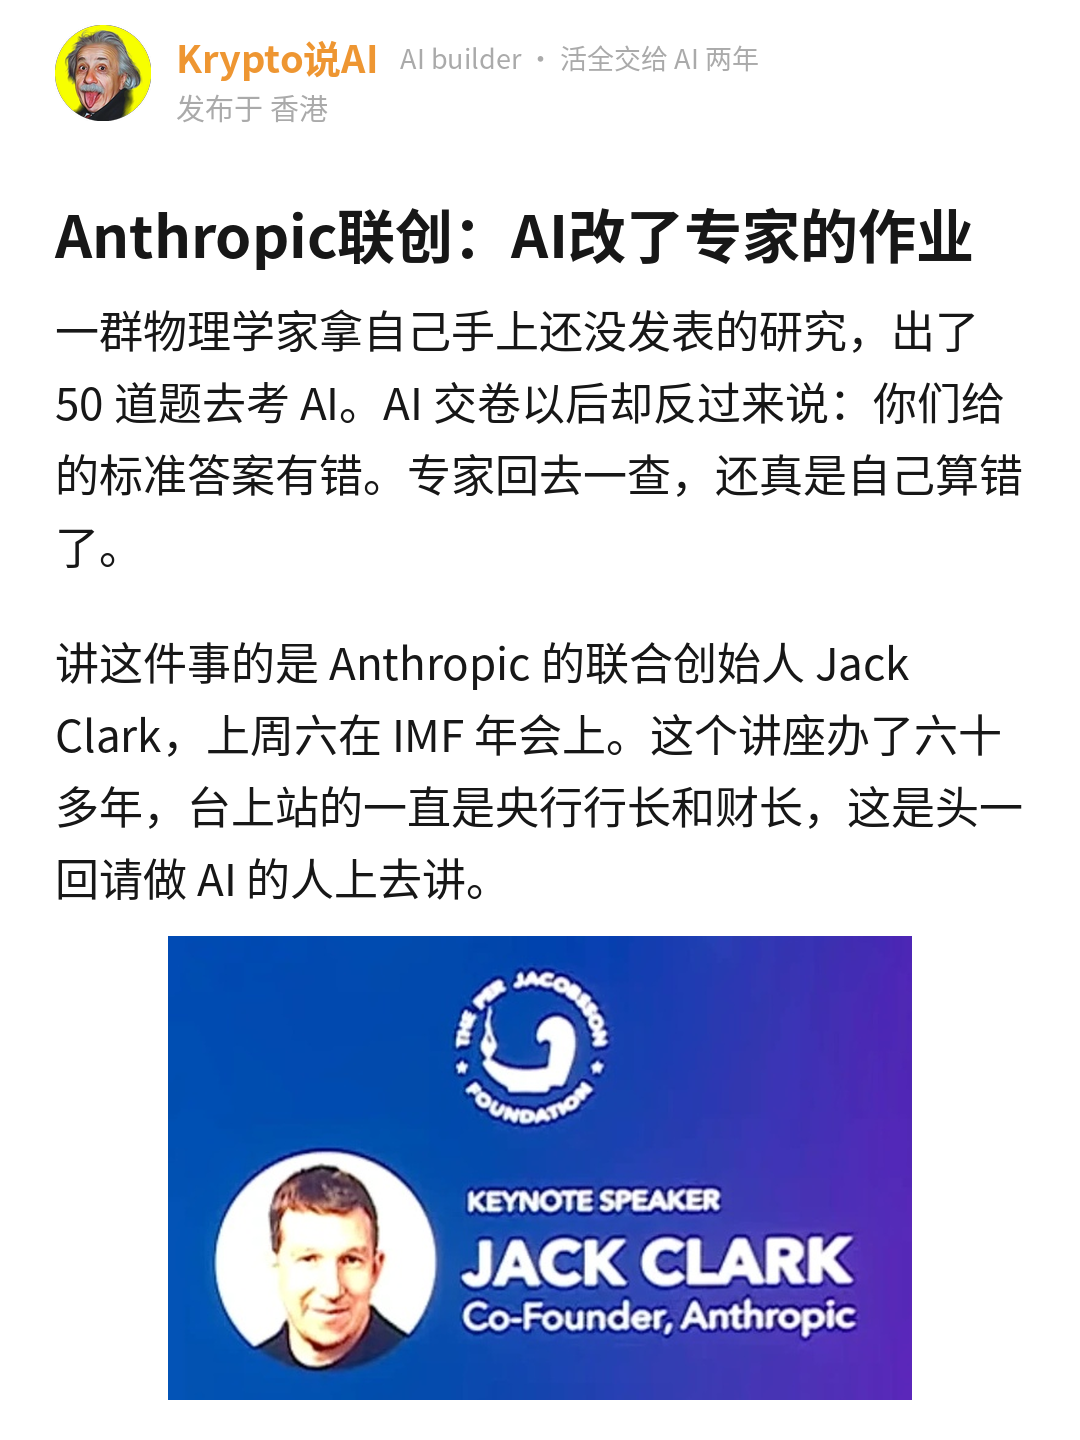
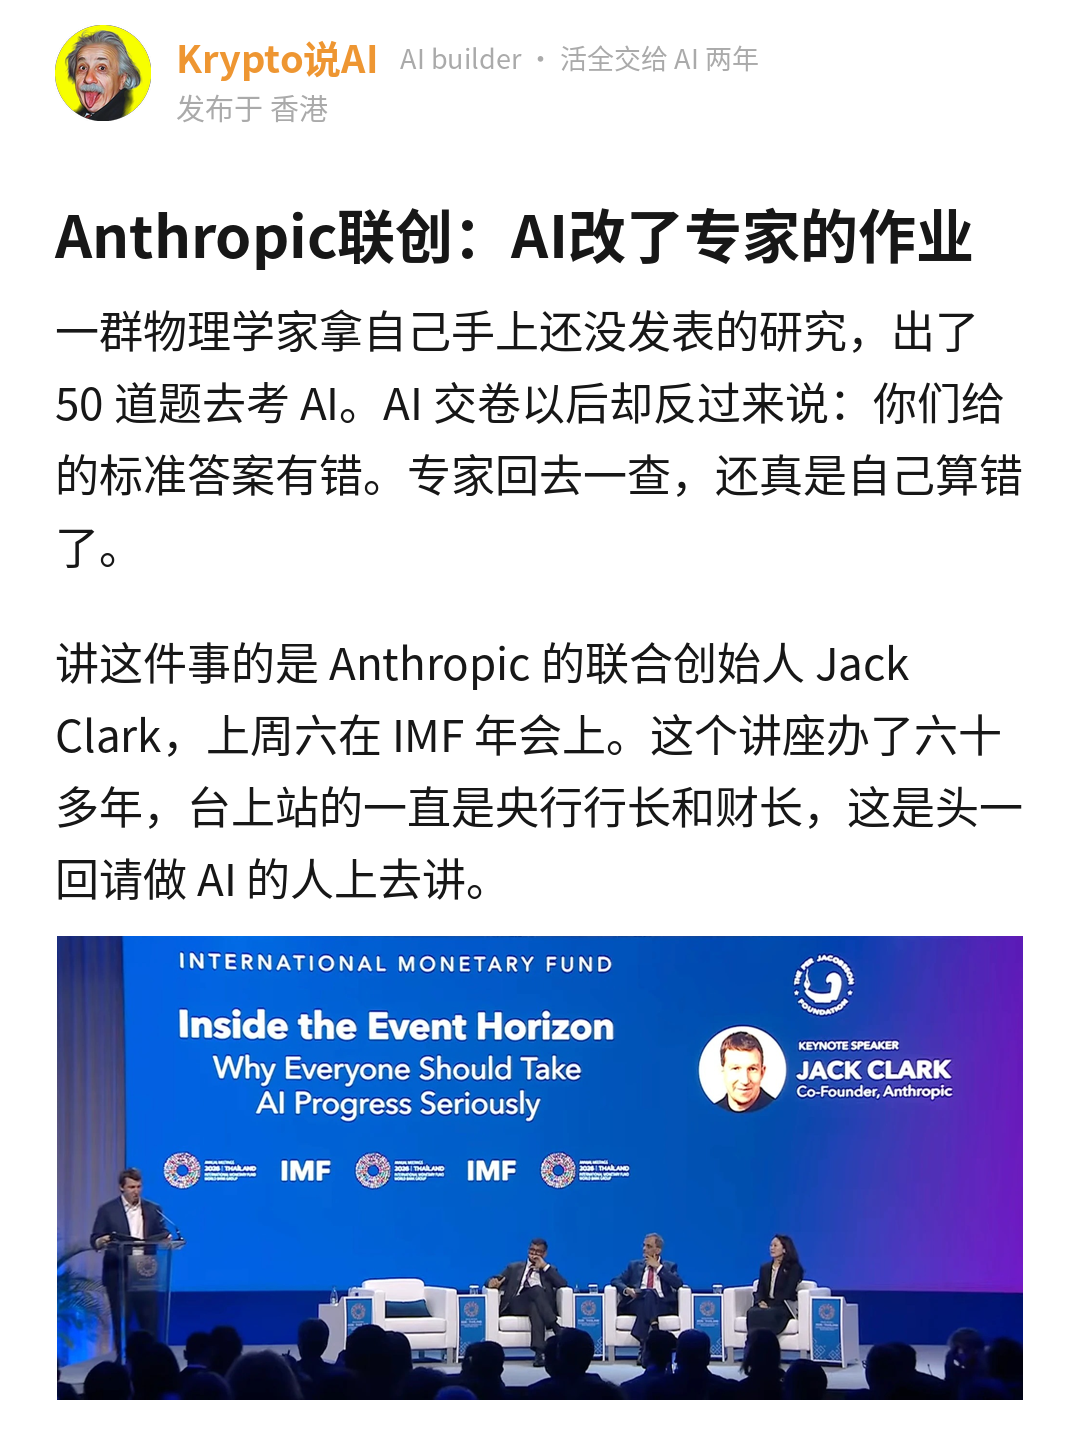
Jack Clark 稿：首页换成现场全景截图（用户：蓝色头像卡太丑）
Claude-Session: https://claude.ai/code/session_01T15AAHQoYUXFM2uX4hW7KL

Changed region(s): [[0.0306, 0.625, 0.9472, 1.0]]

diff --git a/发布/2026-10-21_jack-clark-imf/meme版/编辑用/draft.md b/发布/2026-10-21_jack-clark-imf/meme版/编辑用/draft.md
@@ -9,7 +9,7 @@ output: 每周留一件活自己从头算一遍，AI 跟你的答案打架时先
 keyword: Anthropic
 keywords: Jack Clark, AI取代工作, 奇点
 headline: Anthropic联创：AI改了专家的作业
-hero: hero_card.jpg
+hero: hero_stage.jpg
 hero_after: 2
 location: 香港
 account: Krypto说AI
